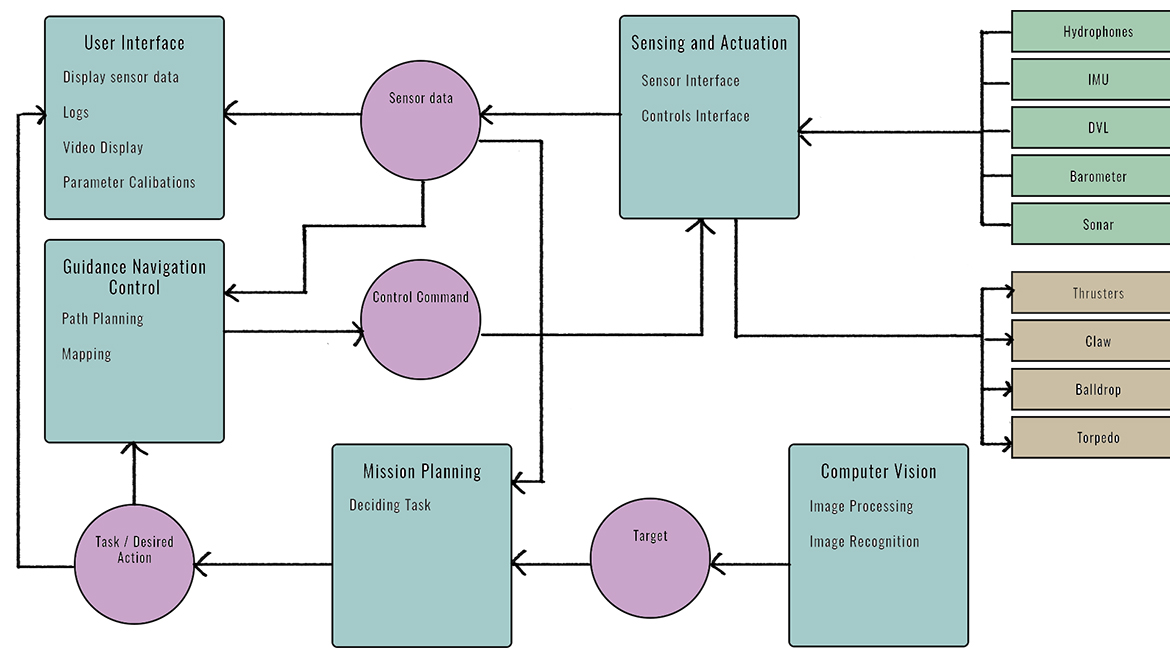
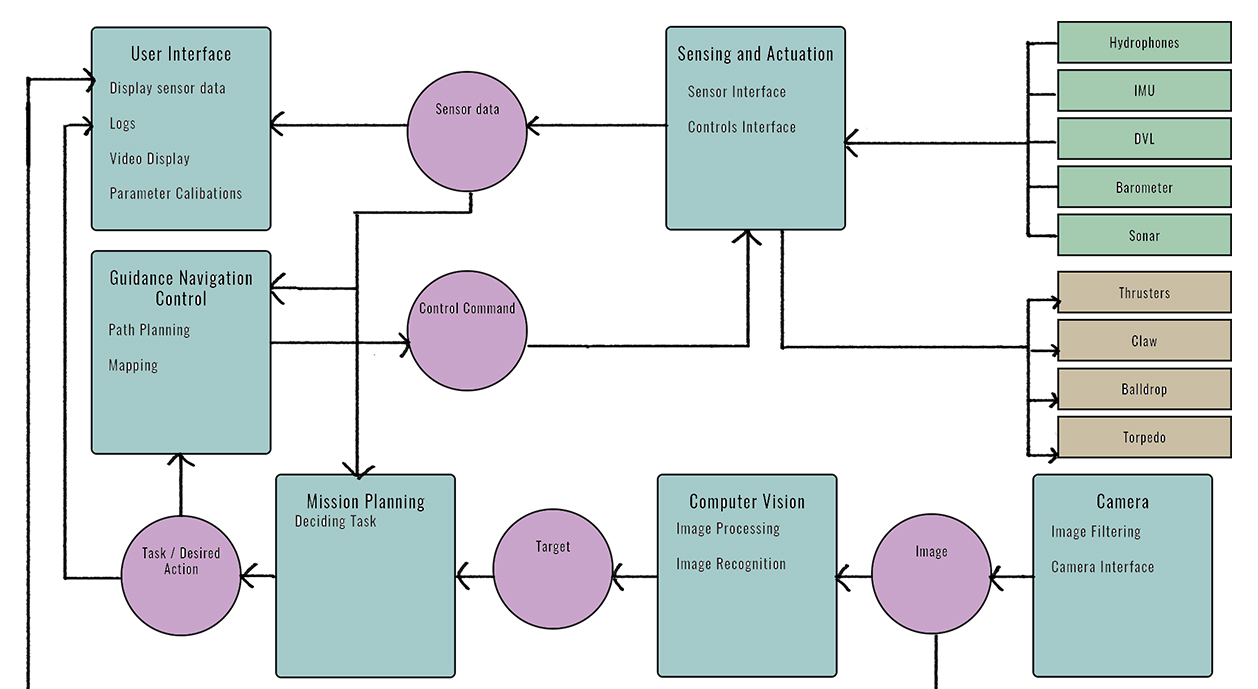
Updated design to incude camera

diff --git a/README.md b/README.md
@@ -8,7 +8,7 @@ We will use ROS to set up different nodes in our system. Some of the nodes will 
 ![Software Design Picture](https://github.com/RoboSubCSULA/SeniorDesign21-22/blob/UpdatingStructure/software_design.jpg )
 
 ## Nodes
-A node functions as it's own program and will publish and subscribe to information from other nodes. 
+A node functions as it's own program and will publish and subscribe to information from other nodes.
 
 ### [User Interface](https://github.com/RoboSubCSULA/SeniorDesign21-22/tree/UpdatingStructure/user_interface)
 In the user interface we want to display sensor data, and logs.
@@ -26,8 +26,8 @@ This node is where all our sensor and controls will be connected.
 ### [Guidance Navigation Control](https://github.com/RoboSubCSULA/SeniorDesign21-22/tree/UpdatingStructure/guidance_navigation_control)
 This node will do path planning and mapping.
 
-
-
+### [Camera](https://github.com/RoboSubCSULA/SeniorDesign21-22/tree/UpdatingStructure/camera)
+...
 
 ## Getting Started
 ### Requirements:
